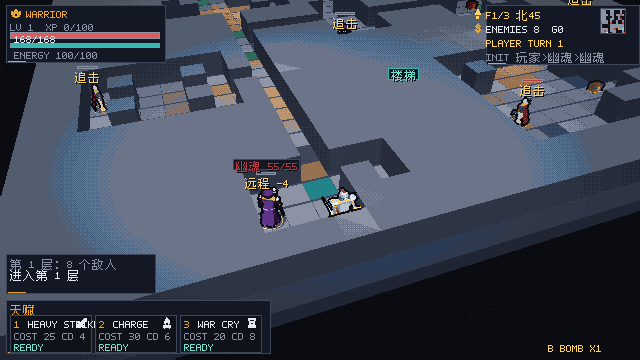
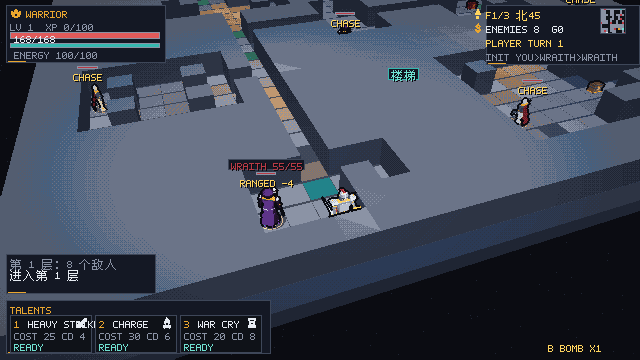
feat: english enemy names and intents

diff --git a/docs/LOCALIZATION.md b/docs/LOCALIZATION.md
@@ -14,13 +14,14 @@
 - 菜单标题、seed 行、footer
 - 职业卡：职业名/资源/定位/三个天赋名与描述
 - 核心 HUD：等级、楼层、敌人、回合、先攻、职业资源、热键栏状态
+- 敌人名/短名、意图（ATK/RANGED/CHASE/STUN）、先攻 YOU
 - F2 按 L 切换 ZH/EN，settings.language 持久化
 - --lang en 可直接看英文设置/菜单
 
 ## 没有
 
 - 暂停/BADGES 仍是英文固定文案（中文模式下不切换）
-- 敌人名/意图/战斗日志/物品/商店/祭坛/帮助/结算/底部天赋标签未翻译
+- 战斗日志/物品/商店/祭坛/帮助/结算/天赋瞄准提示未翻译
 - 没有语言选择 UI（F2 里没有）
 - 没有英文截图/字体溢出验收
 - 没有内容翻译（406 去重字符串）
